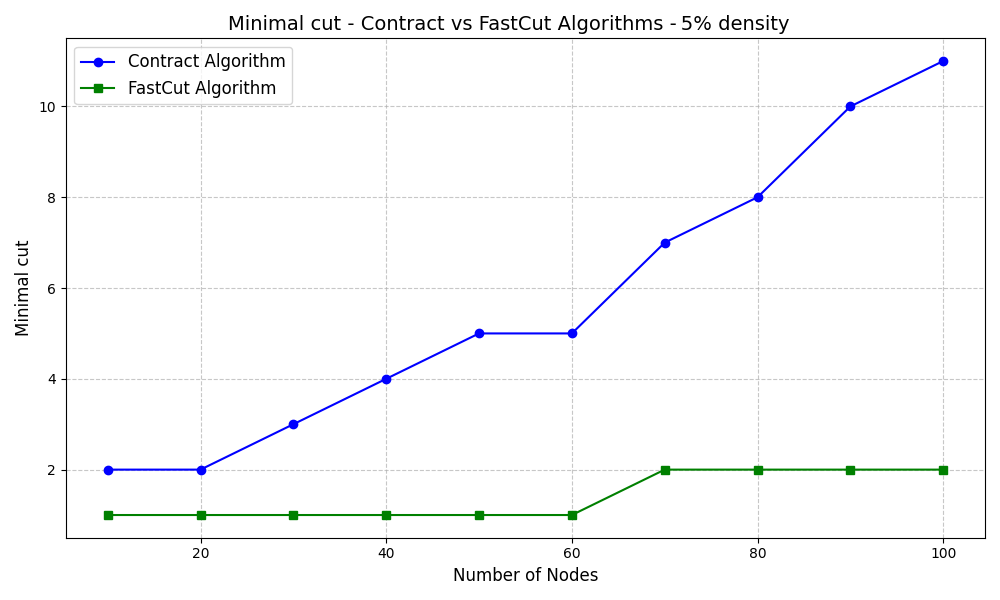
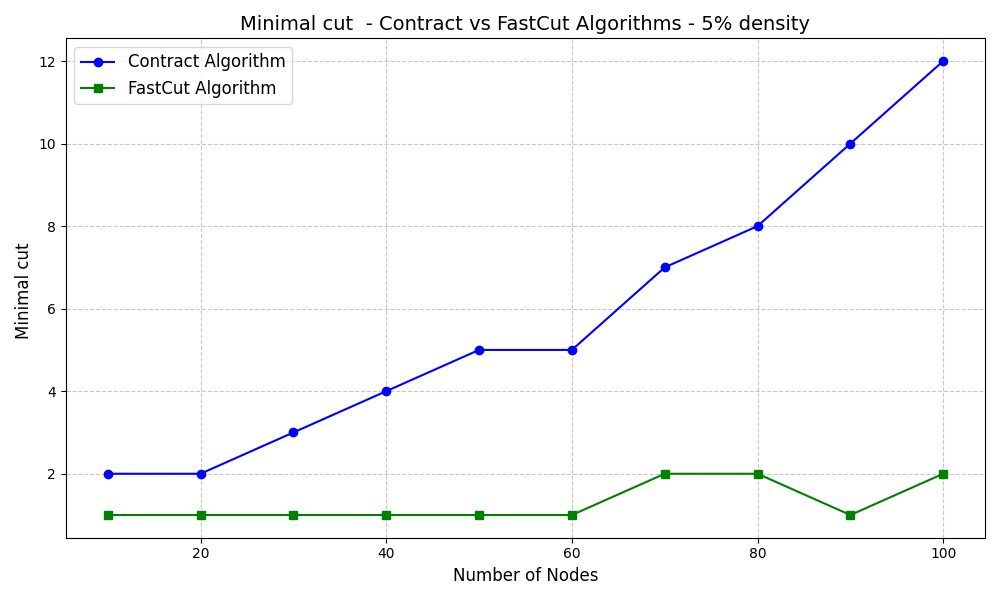
[END] plotting

diff --git a/main.py b/main.py
@@ -315,64 +315,78 @@ def main_test():
             f"Size: {result['size']}, Probability: {result['probability']}, Time: {result['time']:.6f} sec, Nodes: {result['num_nodes']}, Edges: {result['num_edges']}")
 
 
-def main(densities: list[float], num_v: list[int], num_try: int = 1, time_out: float = float('inf')) -> dict:
+def main(density: float, num_vertices: list[int], num_iteration: int = 1, time_out: float = float('inf')) -> dict:
+    """
+    Try to do all densities for all the num_v vertices for num_iteration times with time_out time for each iteration
+    :param density: densities (probability for every edges to happen) of the graphs from 0 to 1
+    :param num_vertices: List of vertices from 0 to inf
+    :param num_iteration: number of iteration
+    :param time_out: time out for each algorithm iteration
+    :return: a dictionnary with dict[number_vertices] = [(cut_contract, cut_fast),
+                                                        (error_contract, error_fast),
+                                                        (compute_time_contract, compute_time_fast)]
+    """
     # printing purpose
     progress_threshold: int = 5
-    update_interval: float = num_try * (progress_threshold / 100)  # Calculate steps per update
+    update_interval: float = num_iteration * (progress_threshold / 100)  # Calculate steps per update
 
     # output
     output: dict[int: List[tuple[int, int]]] = dict()
-    print(f"STARTING : {densities} densitites, {num_v} nodes, {num_try} iteration")
+    print(f"STARTING : {density} densitites, {num_vertices} nodes, {num_iteration} iteration")
 
-    for density in densities:
-        for n_v in num_v:
-            num_edges: int = 0
-            error: list[int] = [0, 0]
-            minimal_cut: list[int] = [0, 0]
-            computation_time: list[float] = [0, 0]
+    for n_v in num_vertices:
+        num_edges: int = 0
+        error: list[int] = [0, 0]
+        minimal_cut: list[int] = [0, 0]
+        computation_time: list[float] = [0, 0]
 
-            start_time = time.time()
+        start_time = time.time()
 
-            print(n_v, density, num_try)
+        print(n_v, density, num_iteration)
 
-            for i in range(num_try):
-                GRAPH = Solver.generate_random_graph(n_v, density)
-                try:
-                    start_try = time.time()
-                    minimal_cut[0] += Solver.contract(GRAPH, time_out/num_try)
-                    computation_time[0] += time.time()-start_try
-                except:
-                    error[0] += 1
+        for i in range(num_iteration):
+            GRAPH = Solver.generate_random_graph(n_v, density)
+            try:
+                start_try = time.time()
+                minimal_cut[0] += Solver.contract(GRAPH, time_out)
+                computation_time[0] += time.time()-start_try
+            except:
+                error[0] += 1
 
-                try:
-                    start_try = time.time()
-                    minimal_cut[1] += Solver.fast_cut(GRAPH, time_out/num_try)
-                    computation_time[1] += time.time()-start_try
+            try:
+                start_try = time.time()
+                minimal_cut[1] += Solver.fast_cut(GRAPH, time_out)
+                computation_time[1] += time.time()-start_try
 
-                except:
-                    error[1] += 1
+            except:
+                error[1] += 1
 
-                num_edges += GRAPH.num_edges
+            num_edges += GRAPH.num_edges
 
-                if i % update_interval == 0 or i == num_try and len(densities) == len(num_v) == 1:
-                    progress = (i / num_try) * 100
-                    #print(f"Progress: {progress + 5:.0f}%")
+            if i % update_interval == 0 or i == num_iteration and len(num_vertices) == 1:
+                progress = (i / num_iteration) * 100
+                #print(f"Progress: {progress + 5:.0f}%")
 
-            elapsed = time.time() - start_time
-            print(f"\tTotal time: {elapsed:.4f} sec - {elapsed / num_try:.4f} sec average ({computation_time[0]/num_try:.4f}, {computation_time[1]/num_try:.4f})")
-            print(f"\tSummary of Results: {num_edges} edges - {num_edges / num_try} average")
-            print(f"\t{error} errors ({error[0] / num_try * 100:0.2f}%, {error[1] / num_try * 100:0.2f}%)")
-            print(f"\t({minimal_cut[0] // num_try}, {minimal_cut[1] // num_try}) minimal cut")
+        elapsed = time.time() - start_time
+        print(f"\tTotal time: {elapsed:.4f} sec - {elapsed / num_iteration:.4f} sec average"
+              f" ({computation_time[0] / num_iteration:.4f}, {computation_time[1] / num_iteration:.4f})")
+        print(f"\tSummary of Results: {num_edges} edges - {num_edges / num_iteration} average")
+        print(f"\t{error} errors ({error[0] / num_iteration * 100:0.2f}%, {error[1] / num_iteration * 100:0.2f}%)")
+        print(f"\t({minimal_cut[0] // num_iteration}, {minimal_cut[1] // num_iteration}) minimal cut")
 
 
-            # minimal cut, error, computation time
-            output[n_v] = [(minimal_cut[0]//num_try, minimal_cut[1]//num_try),
-                           (error[0], error[1]),
-                           (computation_time[0] / num_try, computation_time[1] / num_try)]
+        # minimal cut, error, computation time
+        output[n_v] = [(minimal_cut[0] // num_iteration, minimal_cut[1] // num_iteration),
+                       (error[0] / num_iteration * 100, error[1] / num_iteration * 100),
+                       (computation_time[0] / num_iteration, computation_time[1] / num_iteration)]
     return output
 
 def basic_main():
-    prob: float = 0.5
+    """
+    easy main for 1 graph showing everything going on
+    """
+
+    prob: float = 0.05
     num_v = 100
     # Generate a random graph
     start_time = time.time()
@@ -395,7 +409,7 @@ def basic_main():
     print(f"Time taken: {third_time:0.4f} seconds")
 
 
-def plot_algorithm(dic: dict, x_label: str, y_label: str, title_label: str):
+def plot_algorithm(dic: dict[int: List[Tuple]], x_label: str, y_label: str, title_label: str):
     """
     Plots Contract and FastCut algorithms comparisons.
 
@@ -434,11 +448,12 @@ def plot_algorithm(dic: dict, x_label: str, y_label: str, title_label: str):
 if __name__ == "__main__":
     random.seed(SEED)
 
-    densities = [0.4]
-    num_v = [10 * (i+1) for i in range(0, 10)]
-    num_try = 10
+    density: float = 0.05
+    num_v: List[int] = [10 * (i+1) for i in range(0, 10)]
+    num_try: int = 100
+    set_time_out: float = 18
 
-    result = main(densities, num_v, num_try, 180)
+    result = main(density, num_v, num_try, set_time_out)
 
     error_dic: dict[int: tuple[int, int]] = dict()
     cut_dic: dict[int: tuple[int, int]] = dict()
@@ -451,7 +466,7 @@ if __name__ == "__main__":
         computation_time_dic[key] = value[2]
 
 
-
+    """
     fake_result: dict[int: tuple[int, int]] = \
         {10: (0, 0),
          20: (0, 0),
@@ -463,9 +478,10 @@ if __name__ == "__main__":
          80: (0, 0),
          90: (0, 0),
          100: (0, 0)}
+    """
 
     x = "Number of Nodes"
-    title = f"Contract vs FastCut Algorithms - {densities[0]*100:0.0f}% density"
+    title = f"Contract vs FastCut Algorithms - {density*100:0.0f}% density"
 
     y = "Error rate"
     title_1 = f"{y} - " + title
